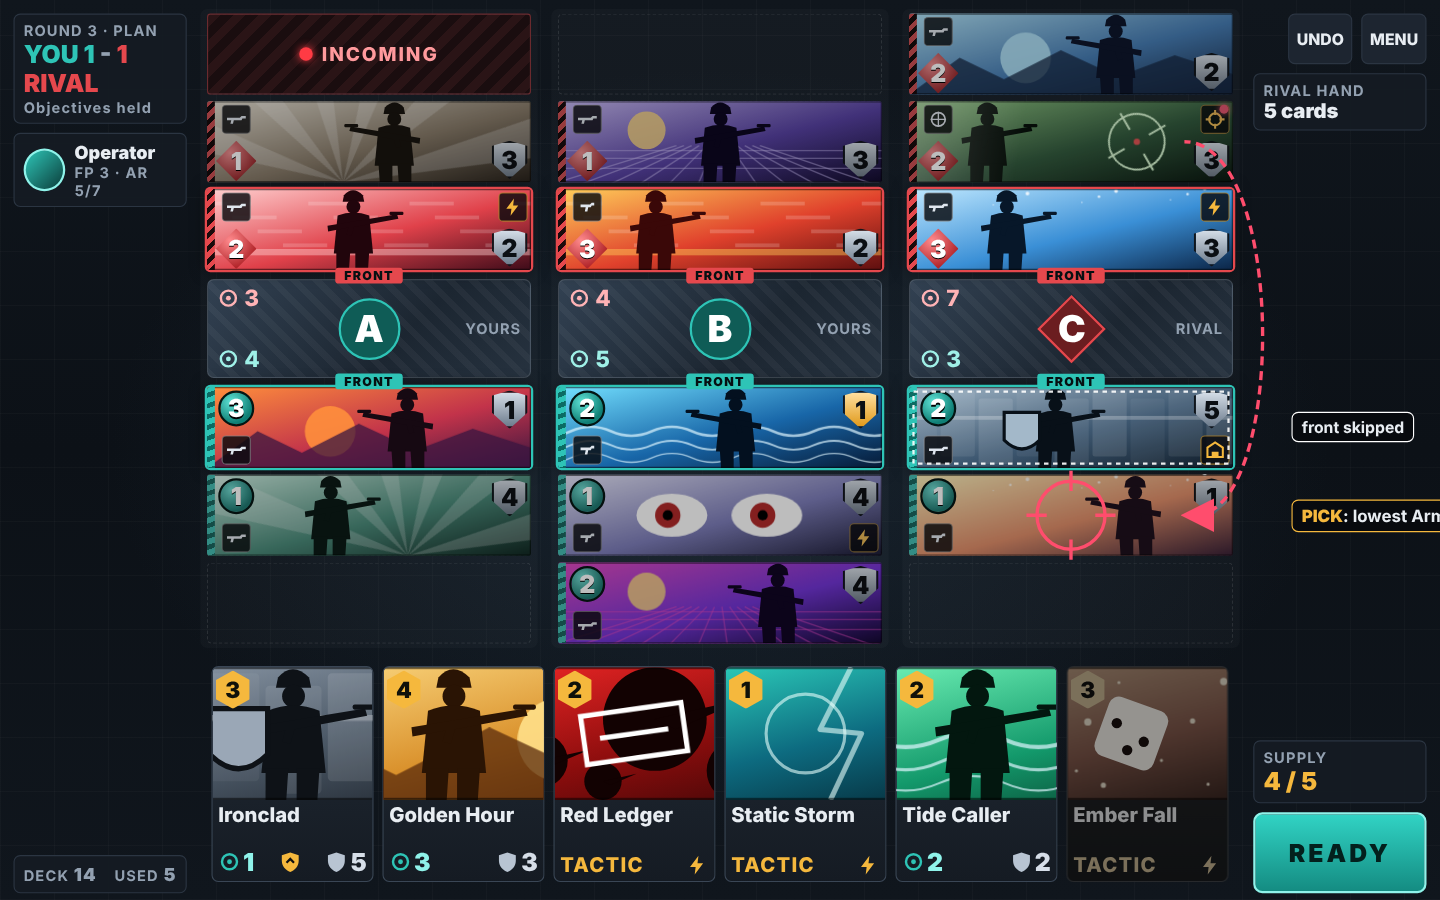
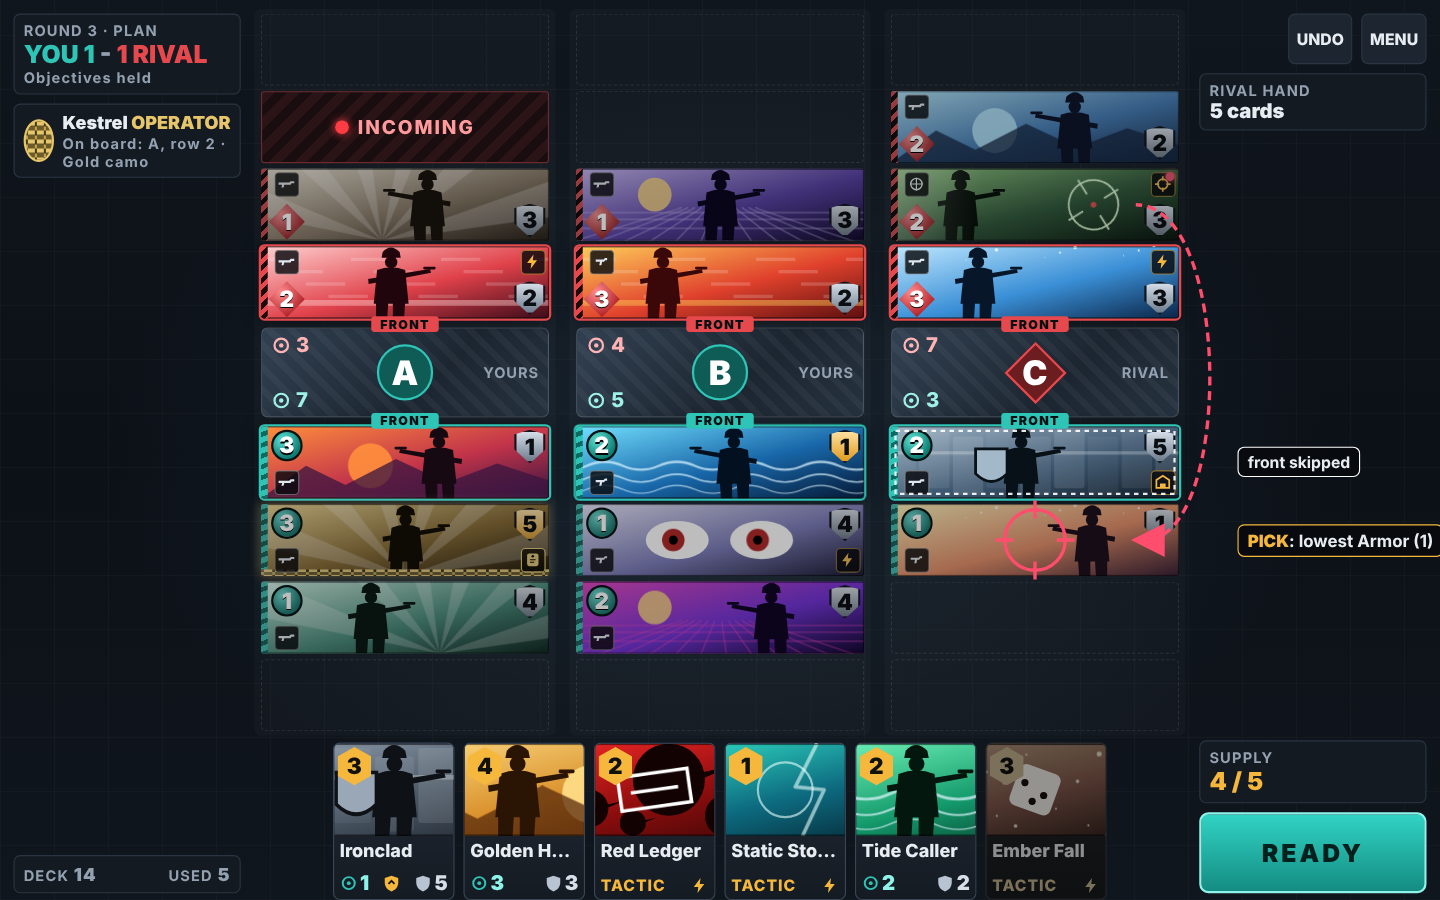
WIP: KillingCard UX mock-up and CardZone clarity pass in progress
Claude-Session: https://claude.ai/code/session_01JmVwVgoeVTdNBC1RfBf5V4

diff --git a/projects/killingcard/documentation/ux/mockup/index.html b/projects/killingcard/documentation/ux/mockup/index.html
@@ -78,6 +78,15 @@ body.chrome #stage { outline: 1px solid var(--line); }
 .kw svg { width: 76%; height: 76%; }
 .tag-plan { position: absolute; left: 10px; top: 3px; background: var(--amber); color: #1a1200; font: 900 11px var(--ui); padding: 1px 5px; border-radius: 3px; letter-spacing: .08em; z-index: 3; }
 .banner.ghost { opacity: .5; pointer-events: none; }
+/* Operator: your equipped calling card on the board. Brass mastery frame + camo band on the outer edge + dog-tag plate. */
+.banner.operator .art { box-shadow: inset 0 0 0 3px #e7c56a, inset 0 0 0 5px rgba(0,0,0,.55), 0 0 10px rgba(231,197,106,.45); }
+.banner.operator.front .art { box-shadow: inset 0 0 0 3px #e7c56a, inset 0 0 0 5px rgba(0,0,0,.55), 0 0 0 2px var(--sidec), 0 0 14px rgba(0,0,0,.6); }
+.banner .camo { position: absolute; left: 0; right: 0; height: 6px; z-index: 1; pointer-events: none;
+  background: conic-gradient(from 90deg at 25% 50%, #6b5a2a 0 25%, #c9a548 0 50%, #3d3a1c 0 75%, #e7c56a 0) 0 0 / 10px 5px; }
+.banner .camo::after { content: ""; position: absolute; inset: 0; background: linear-gradient(90deg, transparent, rgba(255,240,190,.55), transparent); background-size: 40% 100%; background-repeat: no-repeat; background-position: -50% 0; }
+.anim .camo::after { animation: glint 1.4s linear infinite; }
+@keyframes glint { to { background-position: 150% 0; } }
+.kw.optag { border-color: #e7c56a; color: #e7c56a; background: linear-gradient(180deg, #2b230f, #120e05); }
 .banner.ghost .art { outline: 2px dashed var(--you); outline-offset: 2px; }
 .banner.hover { z-index: 40; }
 .banner.hover .scaler { transform: scale(var(--hz,1.5)); }
@@ -152,7 +161,6 @@ body.chrome #stage { outline: 1px solid var(--line); }
 <body class="chrome">
 <div id="toolbar">
   <div class="grp"><span class="lbl">Screen</span><button data-size="phone">Phone 844x390</button><button data-size="desktop">Desktop 1440x900</button></div>
-  <div class="grp"><span class="lbl">Rows</span><button data-rows="3">3 per side</button><button data-rows="4">4 per side</button></div>
   <div class="grp"><span class="lbl">Hand</span><button data-hand="A">A: centred crop</button><button data-hand="B">B: banner stripe</button></div>
   <div class="grp"><span class="lbl">Demo</span>
     <button data-demo="select">Select card</button>
@@ -186,7 +194,7 @@ LAYOUTS.phone4 = Object.assign({}, LAYOUTS.phone, { rows: 4, bw: 176, bh: 44, ro
 LAYOUTS.desktop4 = Object.assign({}, LAYOUTS.desktop, { rows: 4, bw: 256, bh: 64, rowGap: 5, objH: 80, top: 12, midGap: 8, handGap: 10, handH: 140,
   cw: 108, ch: 140, badge: 28, bfont: 20, kw: 22, artH: 82, nameF: 16, statF: 18, sicon: 16 });
 const P = new URLSearchParams(location.search);
-let rows = P.get("rows") === "4" ? 4 : 3;
+let rows = P.get("rows") === "3" ? 3 : 4; // head decision 2026-11-05: 4 rows per side (3 kept only via ?rows=3 for reference)
 let size = P.get("size") === "desktop" ? "desktop" : "phone";
 let handOpt = P.get("hand") === "B" ? "B" : "A";
 if (P.get("chrome") === "0") document.body.classList.remove("chrome");
@@ -246,6 +254,7 @@ const ARTS = {
   bastion:{ bg: ["#a3b8c9", "#3d5770", "#0f1b27"], sky: "plates", fig: .45, fcol: "#081018", focal: .45, shield: true },
   rider:  { bg: ["#a8e6ff", "#3b7fc4", "#13284a"], sky: "sun", fig: .64, fcol: "#0b1630", focal: .64 },
   eyes:   { bg: ["#e8e8ff", "#7d7dc8", "#1b1b3a"], sky: "eyes", fig: null, focal: .5 },
+  opcamo: { bg: ["#f3d88a", "#8a6a2a", "#1d1608"], sky: "rays", fig: .5, fcol: "#140f05", focal: .5 },
   caller: { bg: ["#7dffc2", "#13996b", "#05261b"], sky: "waves", fig: .36, fcol: "#03170f", focal: .36 }
 };
 let artSeq = 0;
@@ -288,6 +297,7 @@ document.head.appendChild(kf);
 
 // ---------------------------------------------------------------- data
 const CARDS = {
+  op: { name: "Kestrel", art: "opcamo", type: "unit", fp: 3, ar: 5, max: 7, kws: [], operator: true, text: "<b>Operator</b> (your calling card). Deployable unit with stronger stats. Respawns after being downed. Mastery: Gold camo (tier 3 of 4).", cls: "w_ar" },
   y1: { name: "Ridge Runner", art: "ridge", type: "unit", fp: 3, ar: 1, max: 1, kws: [] },
   y2: { name: "Steel Choir", art: "choir", type: "unit", fp: 1, ar: 4, max: 4, kws: [] },
   y3: { name: "Deep Tide", art: "tide", type: "unit", fp: 2, ar: 1, max: 2, kws: [] },
@@ -312,7 +322,7 @@ const CARDS = {
 };
 const INIT = () => ({
   cols: [
-    { id: "A", rival: ["r1", "r2"], you: ["y1", "y2"] },
+    { id: "A", rival: ["r1", "r2"], you: ["y1", "op", "y2"] },
     { id: "B", rival: ["r3", "r4"], you: ["y3", "y4", "y5"] },
     { id: "C", rival: ["r5", "r6", "r7"], you: ["y6", "y7"] }
   ],
@@ -321,10 +331,10 @@ const INIT = () => ({
   sel: null
 });
 let S = INIT();
-function resetCards() { for (const c of Object.values(CARDS)) if (c.max) c.ar = c.max; CARDS.y1.ar = 1; CARDS.y3.ar = 1; }
+function resetCards() { for (const c of Object.values(CARDS)) if (c.max) c.ar = c.max; CARDS.y1.ar = 1; CARDS.y3.ar = 1; CARDS.op.ar = 5; }
 resetCards();
 const CLS = { r6: "w_sn", y4: "w_smg", y3: "w_smg", r3: "w_smg", y7: "w_smg", h5: "w_smg" };
-for (const [k, c] of Object.entries(CARDS)) if (c.type === "unit") c.cls = CLS[k] || "w_ar";
+for (const [k, c] of Object.entries(CARDS)) if (c.type === "unit" && !c.cls) c.cls = CLS[k] || "w_ar";
 
 // ---------------------------------------------------------------- render
 const canvas = document.getElementById("canvas"), stage = document.getElementById("stage");
@@ -352,12 +362,18 @@ function bannerEl(id, side, w, h) {
     sc.appendChild(k);
   }
   if (c.cls) { const cp = el("div", "kw", { position: "absolute", width: px(g.kw), height: px(g.kw), left: px(Math.round(h * .1) + inset + (bs - g.kw) / 2), borderColor: "rgba(255,255,255,.35)", color: "#dfe6ee", zIndex: 2 }, ico(c.cls, g.kw)); cp.style[side === "you" ? "bottom" : "top"] = px(inset); sc.appendChild(cp); }
+  if (c.operator) {
+    b.classList.add("operator");
+    const cm = el("div", "camo"); cm.style[side === "you" ? "bottom" : "top"] = "0"; sc.querySelector(".art").appendChild(cm);
+    const tag = el("div", "kw optag", { position: "absolute", width: px(g.kw), height: px(g.kw), right: px(inset), zIndex: 2 }, '<svg viewBox="0 0 24 24"><path d="M7 3h10a3 3 0 0 1 3 3v12a3 3 0 0 1-3 3H7a3 3 0 0 1-3-3V6a3 3 0 0 1 3-3z" fill="currentColor"/><circle cx="12" cy="7" r="1.8" fill="#120e05"/><path d="M8 12h8M8 15.5h6" stroke="#120e05" stroke-width="1.6"/></svg>');
+    tag.style[side === "you" ? "bottom" : "top"] = px(inset); sc.appendChild(tag);
+  }
   const ft = el("div", "ftab", { width: px(g.ftab[0]), height: px(g.ftab[1]), fontSize: px(g.ftab[2]) }, "FRONT");
   ft.style[side === "you" ? "top" : "bottom"] = px(-g.ftab[1] + 2);
   ft.style.display = "none"; ft.className += " ftab"; sc.appendChild(ft);
   sc.appendChild(el("div", "animdot"));
-  sc.appendChild(el("div", "nametag", { fontSize: px(14) }, `${c.name} <span style="color:var(--muted)">· ${c.type === "unit" ? "Unit" : "Tactic"}${c.kws.includes("pick") ? " - Pick" : ""}${c.kws.includes("protector") ? " - Protector" : ""}</span>`));
-  attachPress(b, () => openFocus(id, side), null);
+  sc.appendChild(el("div", "nametag", { fontSize: px(14) }, `${c.name} <span style="color:var(--muted)">· ${c.operator ? "Operator" : c.type === "unit" ? "Unit" : "Tactic"}${c.kws.includes("pick") ? " - Pick" : ""}${c.kws.includes("protector") ? " - Protector" : ""}</span>`));
+  attachPress(b, () => openFocus(id, side), () => { if (S.sel && b.dataset.side === "you" && !b.classList.contains("ghost")) playCard(S.sel, +b.dataset.col); });
   b.addEventListener("mouseenter", () => { if (size !== "desktop" || b.classList.contains("ghost")) return; b._ht = setTimeout(() => hoverOn(b), 120); });
   b.addEventListener("mouseleave", () => { clearTimeout(b._ht); hoverOff(b); });
   return b;
@@ -419,8 +435,8 @@ function buildStatic() {
     <div class="box"><div class="k" style="font-size:${f - 3}px">ROUND 3 · PLAN</div>
       <div class="v" style="font-size:${f + 6}px"><span style="color:var(--you)">YOU 1</span> <span style="color:var(--muted)">-</span> <span style="color:var(--rival)">1 RIVAL</span></div>
       <div class="k" style="font-size:${f - 3}px">Objectives held</div></div>
-    <div class="box" style="display:flex;gap:8px;align-items:center"><div style="width:${f * 2.4}px;height:${f * 2.4}px;border-radius:50%;background:linear-gradient(135deg,#2ec4b6,#0b3d3a);border:2px solid #8ff3ea"></div>
-      <div><div class="v" style="font-size:${f}px">Operator</div><div class="k" style="font-size:${f - 3}px">FP 3 · AR 5/7</div></div></div>`;
+    <div class="box" style="display:flex;gap:8px;align-items:center"><div style="width:${f * 2.4}px;height:${f * 2.4}px;border-radius:50%;background:conic-gradient(from 90deg at 25% 50%,#6b5a2a 0 25%,#c9a548 0 50%,#3d3a1c 0 75%,#e7c56a 0) 0 0/8px 8px;border:2px solid #e7c56a"></div>
+      <div><div class="v" style="font-size:${f}px">Kestrel <span style="color:#e7c56a">OPERATOR</span></div><div class="k" style="font-size:${f - 3}px">On board: A, row 2 · Gold camo</div></div></div>`;
   canvas.appendChild(left);
   const leftB = el("div", "rail", { left: px(12), bottom: px(6), width: px(lw) });
   leftB.innerHTML = `<div class="box" style="display:flex;justify-content:space-between"><span class="k" style="font-size:${f - 3}px">DECK <b class="v" style="font-size:${f}px">14</b></span><span class="k" style="font-size:${f - 3}px">USED <b class="v" style="font-size:${f}px">5</b></span></div>`;
@@ -665,14 +681,14 @@ function openFocus(id, side) {
   const W = g.focusW, zw = g.zoomW, zh = zw / 4, pad = 20;
   const fz = size === "phone" ? 16 : 17;
   f.innerHTML = `<div class="fb anim side-${side}" style="width:${zw}px;height:${zh}px;margin:${pad}px auto 10px;">
-      <div class="banner side-${side} anim" style="position:absolute;inset:0;width:${zw}px;height:${zh}px;cursor:default"><div class="scaler"><div class="art">${artSVG(c.art)}<div class="shine"></div></div>
+      <div class="banner side-${side} anim${c.operator ? " operator" : ""}" style="position:absolute;inset:0;width:${zw}px;height:${zh}px;cursor:default"><div class="scaler"><div class="art">${artSVG(c.art)}<div class="shine"></div>${c.operator ? `<div class="camo" style="${side === "you" ? "bottom" : "top"}:0;height:10px"></div>` : ""}</div>
       <div class="spine" style="width:${Math.round(zh * .08)}px"></div>
       ${c.type === "unit" ? `<div class="badge fp" style="width:44px;height:44px;left:${Math.round(zh * .08) + 6}px;${side === "you" ? "top" : "bottom"}:6px;font-size:26px">${c.fp}</div><div class="badge ar${c.ar < c.max ? " hurt" : ""}" style="width:44px;height:46px;right:6px;${side === "you" ? "top" : "bottom"}:6px;font-size:26px">${c.ar}</div>` : ""}
       ${c.kws.length ? `<div class="kws" style="left:auto;right:6px;transform:none;${side === "you" ? "bottom" : "top"}:6px">${c.kws.map(k => `<div class="kw" style="width:34px;height:34px">${ico(k, 34)}</div>`).join("")}</div>` : ""}
       <div class="animdot"></div></div></div></div>
     <div style="padding:0 ${pad}px ${pad}px">
       <div style="display:flex;align-items:baseline;gap:10px;flex-wrap:wrap"><h3 style="font-size:${fz + 8}px">${c.name}</h3>
-        <span class="tl" style="font-size:${fz - 1}px">${c.type === "unit" ? "UNIT" : "TACTIC"} · ${side === "you" ? "YOURS" : "RIVAL"}${c.cost ? ` · COST ${c.cost}` : ""}</span></div>
+        <span class="tl" style="font-size:${fz - 1}px">${c.operator ? "OPERATOR UNIT" : c.type === "unit" ? "UNIT" : "TACTIC"} · ${side === "you" ? "YOURS" : "RIVAL"}${c.cost ? ` · COST ${c.cost}` : ""}</span></div>
       ${c.type === "unit" ? `<div class="row" style="margin:8px 0;font-size:${fz}px"><span class="chip">${ico("fp", 20, side === "you" ? "#2ec4b6" : "#ff6b6f")} Firepower ${c.fp}</span><span class="chip">${ico("ar", 20, "#b8c4d2")} Armor ${c.ar}/${c.max}</span></div>` : ""}
       <div class="rules" style="font-size:${fz}px">${c.text || "No effect."}</div>
       <div class="tl" style="margin-top:8px;font-size:${fz - 3}px">Art: alternate art 1 of 3 · tap anywhere to close</div>
